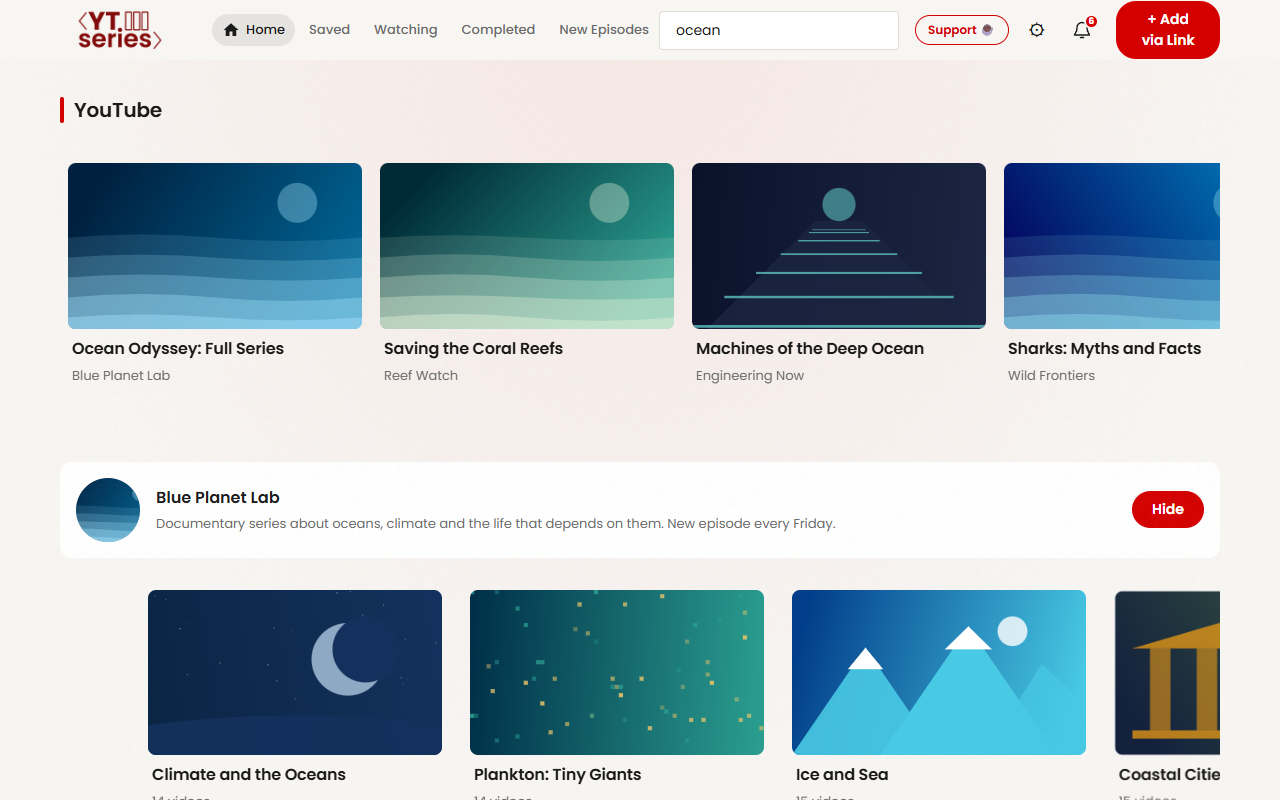
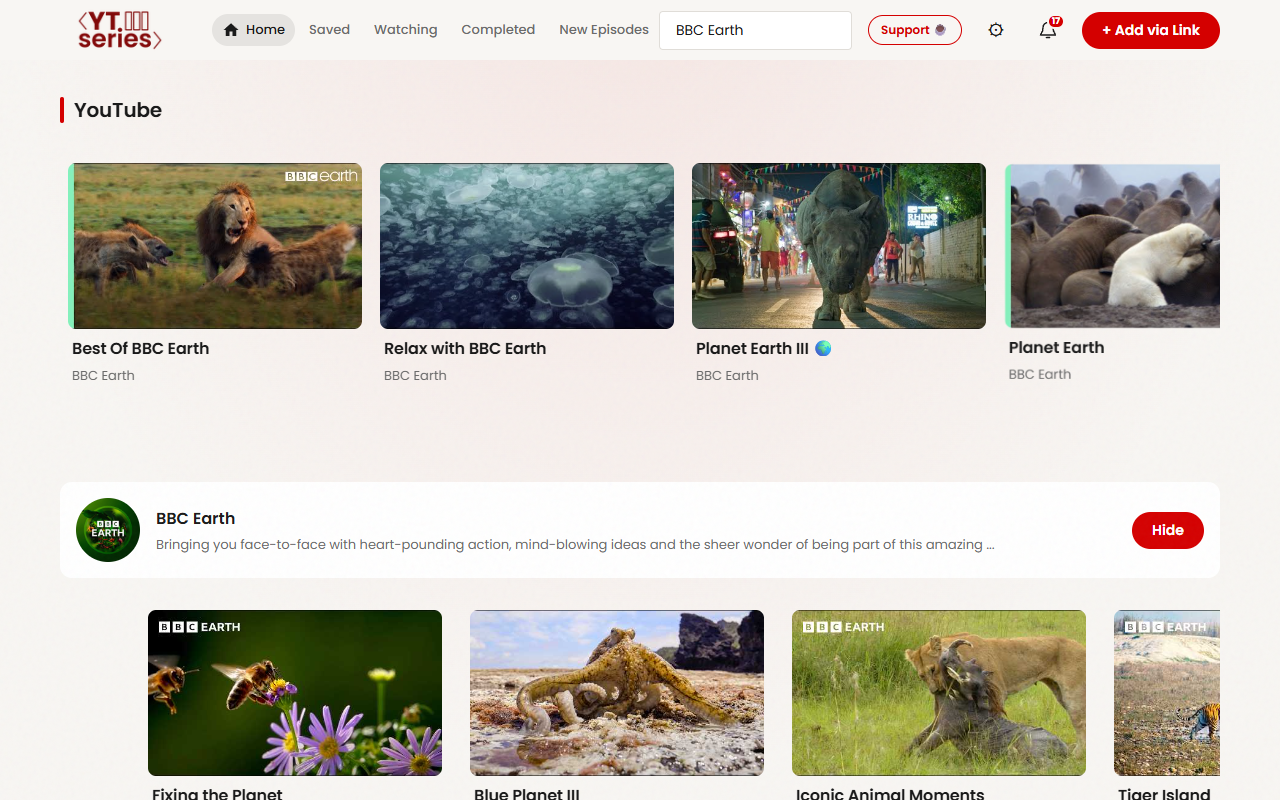
feat(store): screenshots with real YouTube playlists; keep header buttons on one line
The store screenshots now add real playlists from their official channels
(BBC Earth, WWF UK, LEMMiNO, Kurzgesagt, Veritasium, CrashCourse, Mark Rober,
Gordon Ramsay, Mark Wiens, Kara and Nate) through the live Worker, the same
path as "+ Add via Link"; only the viewing state is staged. The fictional
fixtures are gone.

Header: only the search field shrinks when space is tight, so "+ Add via Link"
no longer wraps onto two lines at 1280 px.

diff --git a/src/tab/header.css b/src/tab/header.css
@@ -64,12 +64,24 @@
   gap: var(--space-md);
 }
 
+/* Only the search field gives up width when the header is tight: buttons keep
+   their label on one line. */
+.header-right > * {
+  flex-shrink: 0;
+  white-space: nowrap;
+}
+
 .search-container {
   position: relative;
 }
 
+.header-right > .search-container {
+  flex: 0 1 240px;
+  min-width: 140px;
+}
+
 .search-container input {
-  width: 240px;
+  width: 100%;
   padding: var(--space-sm) 32px var(--space-sm) var(--space-md);
   border: 1px solid var(--border);
   border-radius: var(--radius-sm);

diff --git a/src/tab/responsive.css b/src/tab/responsive.css
@@ -118,7 +118,7 @@
   .header-right { display: contents; }
   .header-pro-btn { margin-left: auto; }
   #addPlaylistBtn { margin-left: auto; min-height: 40px; }
-  .search-container { order: 2; flex: 1 1 100%; margin: 4px 0; }
+  .header-right > .search-container { order: 2; flex: 1 1 100%; margin: 4px 0; }
   .search-container input { width: 100%; min-height: 42px; }
   .nav-links { gap: 0; }
   .nav-link { padding: 6px 8px; font-size: 12px; }

diff --git a/STORE-CWS-LISTING.md b/STORE-CWS-LISTING.md
@@ -41,13 +41,13 @@ English, Italian
 
 ## Screenshots
 
-1280×800, 24-bit PNG (no alpha), in `src/assets/store/screenshots/`. Regenerate with `npm run build && npm run screenshots` (fictional library and original artwork, no third-party content).
+1280×800, 24-bit PNG (no alpha), in `src/assets/store/screenshots/`. Regenerate with `npm run build && npm run screenshots`: it loads real YouTube playlists from their official channels (BBC Earth, WWF UK, LEMMiNO, Kurzgesagt, Veritasium, CrashCourse, Mark Rober, Gordon Ramsay, Mark Wiens, Kara and Nate) through the live Worker, exactly like "+ Add via Link"; `scripts/store-library.mjs` lists them and stages only the viewing state. Needs network; results follow whatever the channels publish.
 
-1. `screenshot-01-home.png` — Home: featured series, "Continue Watching", New This Week with NEW badges (Classic Red)
+1. `screenshot-01-home.png` — Home: featured series with "Continue Watching", In Progress row with NEW badges (Classic Red)
 2. `screenshot-02-detail.png` — Series detail: progress, resume where you left off, episode list with watched toggles (Classic Red)
 3. `screenshot-03-collections.png` — Saved library organised in collections (Ocean Blue)
 4. `screenshot-04-search.png` — YouTube search: playlists and channels, add with one click (Light)
-5. `screenshot-05-activity.png` — Recent activity and progress across series (Forest)
+5. `screenshot-05-activity.png` — Recent activity, My Series and recommendations from your channels (Forest)
 
 ## Promo Images
 - Small promo tile (440x280)

diff --git a/docs/knowledge/08-dev-workflow.md b/docs/knowledge/08-dev-workflow.md
@@ -15,6 +15,7 @@
 - **Lint**: `npm run lint` (ESLint flat config — forbids `innerHTML`, empty catch, thrown literals, external writes to `store._state` — plus `scripts/lint-css.mjs`)
 - **Smoke**: `npm run smoke` (after build) loads `dist/` in Chromium via Playwright: message API, dashboard flows, content script on stubbed youtube.com, popup, axe audit. `SMOKE_SCREENSHOTS=<dir>` saves screenshots
 - **E2E**: `npm run e2e` (after build) drives every dashboard feature, the popup and the content script with a stubbed YouTube Worker (no network): add/search/detail/collections/activity/settings/import-export/backups/reset/footer, error states (outage, quota, not found), keyboard paths, 375 px layout, axe in all four themes. `E2E_ARTIFACTS=<dir>` keeps screenshots; failures are screenshotted and the run continues
+- **Store screenshots**: `npm run screenshots` (after build) captures the five 1280×800 Chrome Web Store screenshots into `src/assets/store/screenshots/`, adding the real playlists in `scripts/store-library.mjs` through the live Worker (needs network)
 - **Typecheck**: `npm run typecheck` (`tsc` on JSDoc; files opt in with `// @ts-check`)
 - **All gates**: `npm run check`
 - **Reload**: Click refresh on extension card in `chrome://extensions`

diff --git a/CHANGELOG.md b/CHANGELOG.md
@@ -15,6 +15,7 @@
 ### Fixed
 - Episode progress was not persisted; overlay/language settings ignored on YouTube until the first update
 - Duplicate or wrong "Add to Series" buttons on YouTube; unreadable sidebar link in YouTube's light theme
+- "+ Add via Link" wrapped onto two lines in the dashboard header at laptop widths
 - JSON export did nothing; recommendations stuck empty after a network error; settings dialog crash
 - Cloud Sync Google sign-in: the OAuth client now targets the Chrome Web Store extension id, and development builds share that id via the manifest `key`
 
